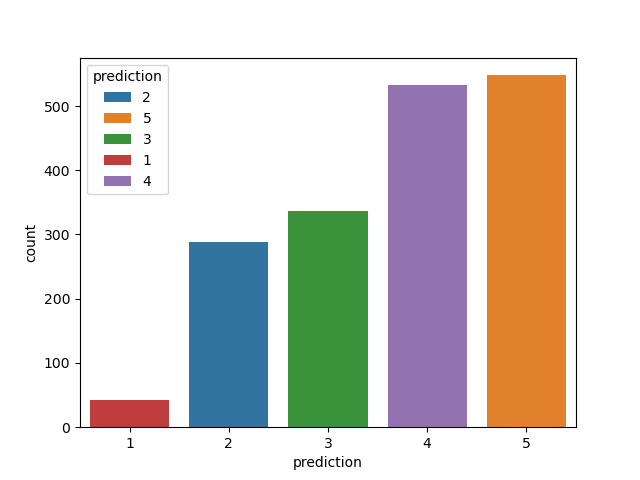
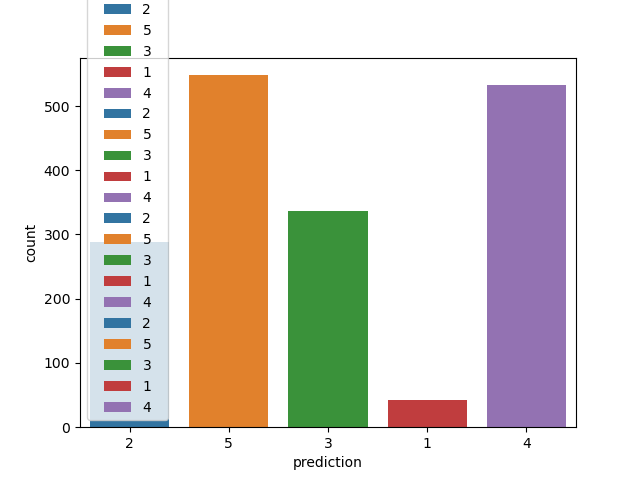
updated plot changes

diff --git a/templates/tablero.html b/templates/tablero.html
@@ -2,8 +2,26 @@
 <html>
 <head>
     <title>Gráfico</title>
+    <link href="https://stackpath.bootstrapcdn.com/bootstrap/4.5.0/css/bootstrap.min.css" rel="stylesheet">
+    <style>
+        .center {
+            display: block;
+            margin-left: auto;
+            margin-right: auto;
+            width: 50%;
+        }
+        .container {
+            text-align: center;
+            padding-top: 50px;
+        }
+    </style>
 </head>
 <body>
-    <img src="../static/countplot.png" alt="Gráfico">
+    <div class="container">
+        <h2>Gráfico de Predicciones</h2>
+        <img src="../static/countplot.png" alt="Gráfico" class="center">
+    </div>
+    <script src="https://code.jquery.com/jquery-3.5.1.slim.min.js"></script>
+    <script src="https://stackpath.bootstrapcdn.com/bootstrap/4.5.0/js/bootstrap.min.js"></script>
 </body>
 </html>

diff --git a/src/main.py b/src/main.py
@@ -49,9 +49,10 @@ def make_predictions(request: Request):
 def obtener_tablero(request: Request):
     df_resultados = pd.DataFrame(list_predictions)
     df_resultados['prediction'] = df_resultados['prediction'].astype(str)
-    ax = sns.countplot(x="prediction", hue="prediction", data=df_resultados, dodge=False, order=[str(i) for i in range(1,6)])
+    ax = sns.countplot(x="prediction", hue="prediction", data=df_resultados, dodge=False)
     fig = ax.get_figure()
     fig.savefig("../static/countplot.png")
+    list_predictions = []
     return templates.TemplateResponse('tablero.html', {'request': request})
 
 if __name__ == "__main__":
